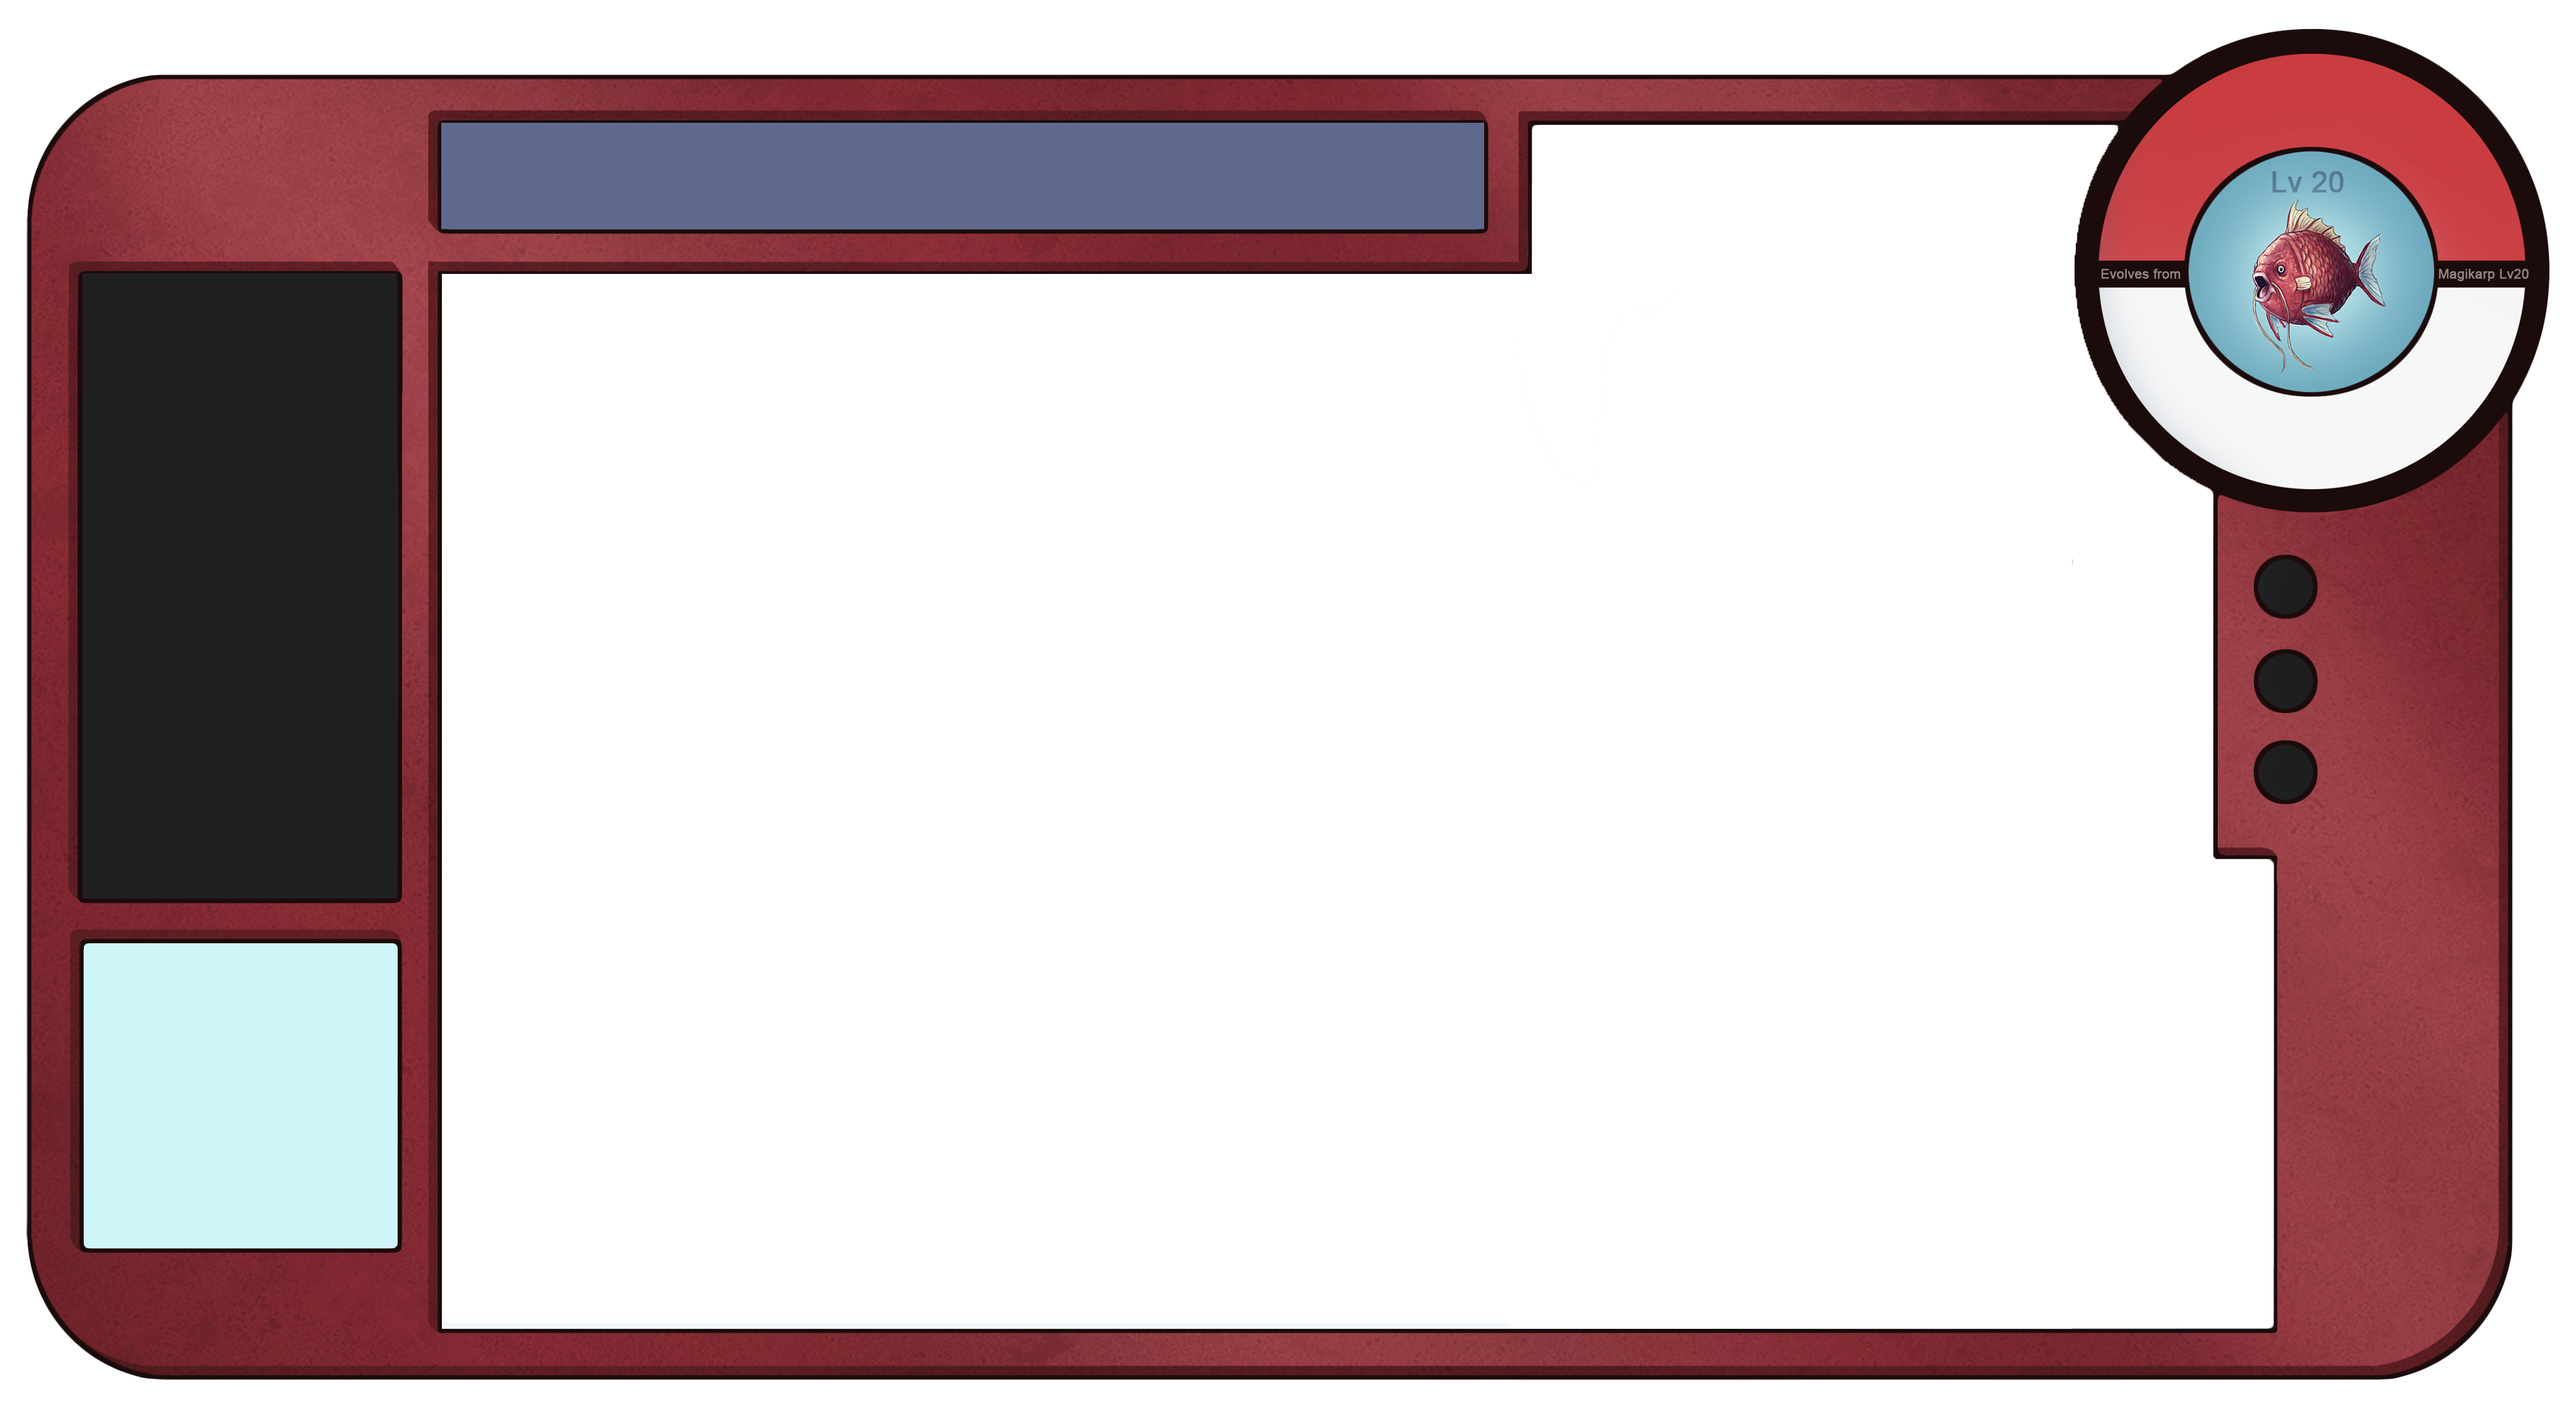
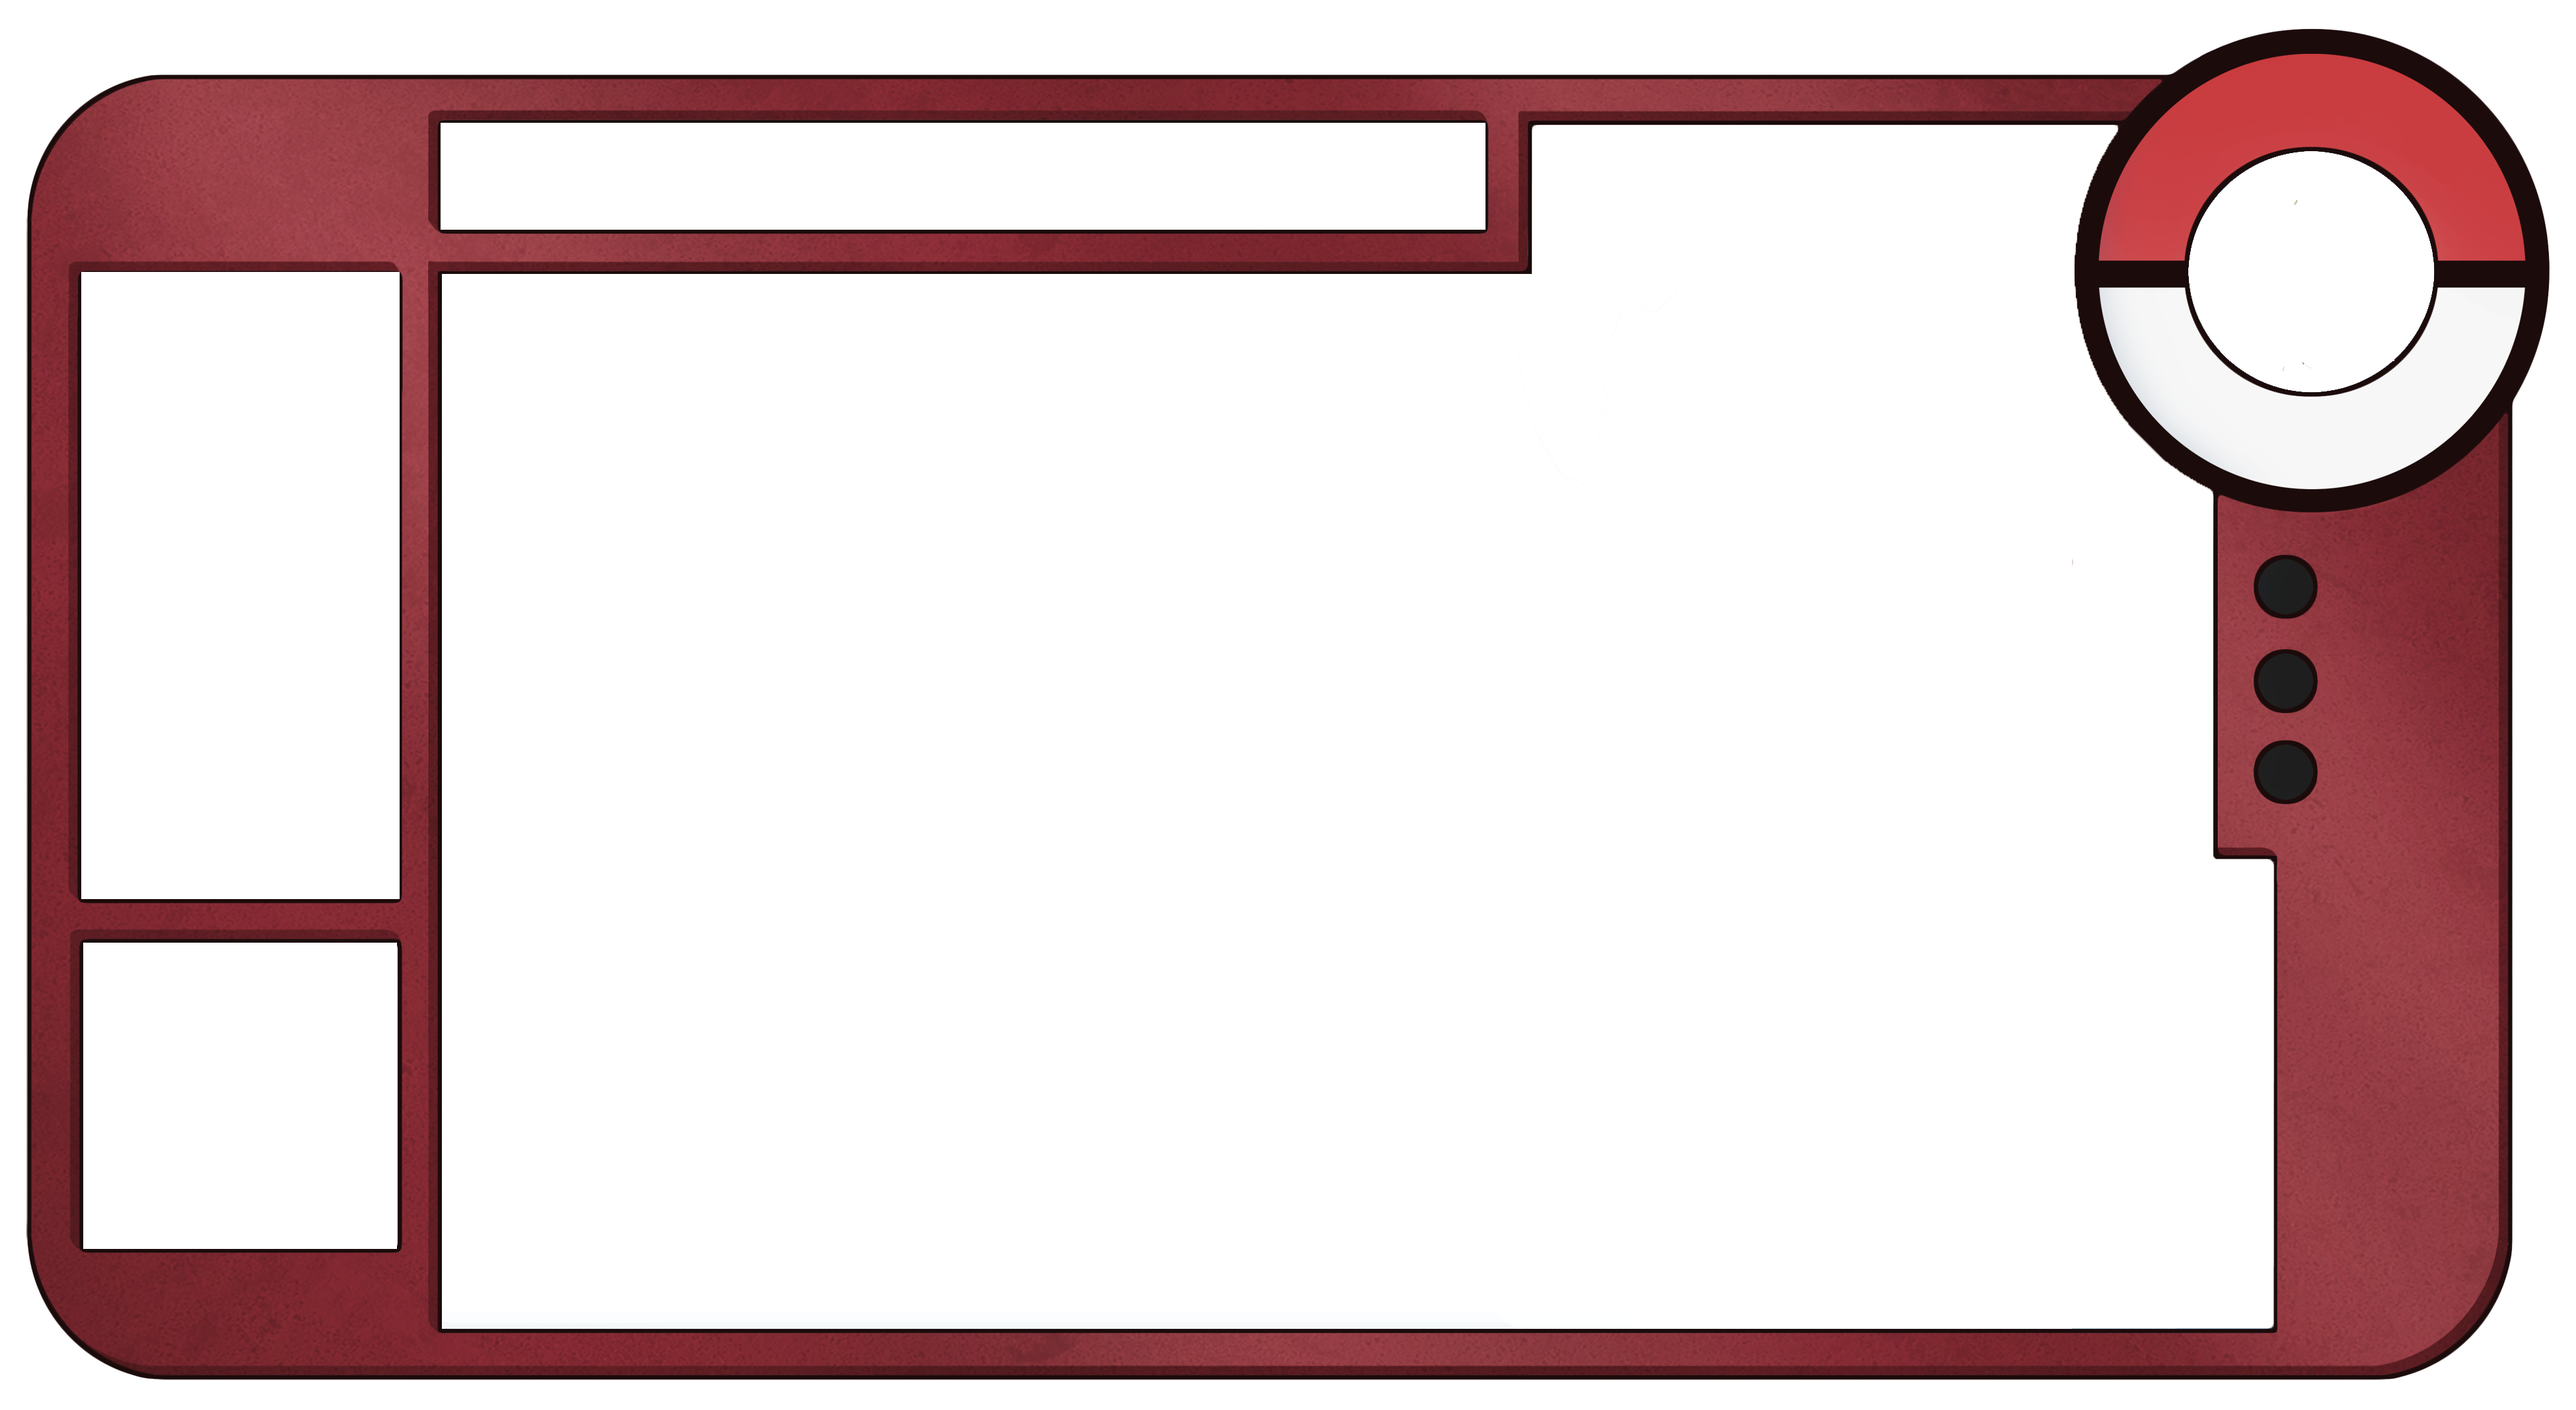
beginning with search component

Changed region(s): [[0.031, 0.1854, 0.1551, 0.8961], [0.1551, 0.0618, 0.5895, 0.1854], [0.8377, 0.0927, 0.9618, 0.2781]]

diff --git a/Cient/public/style.css b/Cient/public/style.css
@@ -14,9 +14,6 @@ body {
   justify-content: center;
 }
 
-a {
-}
-
 header {
   height: 130px;
   display: flex;
@@ -91,6 +88,42 @@ header {
     display: none;
 }
 
+  .collectionwrapper form {
+    width: 20px;
+    display: flex;
+    margin: 0;
+  }
+    .collectionwrapper form input {
+      position: absolute;
+      left: 0px;
+      top: 0;
+      color: black;
+      background: rgba(255,255,255,0.8) !important;
+      z-index: 1;
+      height: 30px;
+      width: 320px !important;
+      padding-left: 1em !important;
+      border-bottom: none !important;
+    }
+    input:focus, input:active {
+      border-bottom: none !important;
+    }
+    ::-webkit-input-placeholder {
+      color: grey;
+    }
+
+  .imglistdefault {
+
+  }
+    .imglistdefault img {
+      position: absolute;
+      top: 17px;
+      right: -43px;
+      width: 78px;
+      background-color: rgba(106, 106, 106,0.4);
+      border-radius: 50%;
+      z-index:3;
+    }
 
 .pokeid {
   position: relative;
@@ -107,16 +140,22 @@ header {
 
 .poketitles {
   position: absolute;
-  top: -285px;
-  left: 30px;
+  top: -280px;
+  left: 0;
   z-index:50;
-  color: #ffe7ce;
+  height: 43px;
+  color: black;
+  background: rgba(255,255,255,0.8);
   display: flex;
-  justify-content: space-between;
-  width: 50%;
+  justify-content: space-around;
+  width: 330px;
+  z-index: 1;
 }
   .poketitles .types {
-    padding-top: 1.5em;
+    padding-top: 0.9em;
+  }
+  .poketitles h5 {
+    margin: 0.4em 0 0 0;
   }
 
 .pokepicture img {
@@ -182,6 +221,45 @@ header {
       width: 180px;
       background: none;
     }
+
+  .pokeremark {
+    position: absolute;
+    bottom: 156px;
+    left: -112px;
+    width: 102px;
+    height: 193px;
+    color: white;
+    padding-left: 0.6em;
+    overflow: scroll;
+  }
+  .pokeremark::-webkit-scrollbar {
+      display: none;
+  }
+  .collectionwrapper .pokeremark {
+      bottom: 135px;
+  }
+    .pokeremark h6 {
+      font-size: 16px;
+      margin-top: 0.3em;
+      text-decoration: underline;
+    }
+    .pokeremark p {
+      font-size: 12px;
+      word-wrap: break-word;
+      width: 90px;
+      z-index: 50;
+    }
+      .nextpokepic span img {
+        position: absolute;
+        right: 0;
+        top: -260px;
+        right: -40px;
+        width: 70px;
+        background-color: rgba(106, 106, 106,1);
+        border-radius: 50%;
+        z-index: 4;
+      }
+
 
   .selectedPokemon {
     margin-left: -1.4em;
@@ -333,6 +411,10 @@ footer {
   background: rgb(94, 29, 247);
 }
 
+/**********************************/
+/***        RESPONSIVE          ***/
+/**********************************/
+
 @media only screen and (max-width: 1200px) {
   .pokemondatas {
     left: 9.3em;
@@ -345,6 +427,18 @@ footer {
   .selectedPokemon {
     margin-left: -0.7em;
     margin-top: -0.7em;
+  }
+  .nextpokepic span img {
+    top: -266px;
+    right: -41px;
+  }
+  .poketitles {
+    top: -283px;
+    left: 0;
+  }
+  .imglistdefault img {
+    top: 19px;
+    right: -43px;
   }
 }
 
@@ -361,4 +455,11 @@ footer {
     margin-top: 20.2em;
     margin-left: -2em;
   }
-}
+  .nextpokepic span img {
+    top: -266px;
+    right: -45px;
+  }
+  .imglistdefault img {
+    top: 15px;
+    right: -48px;
+  }

diff --git a/Cient/src/Identifiers.js b/Cient/src/Identifiers.js
@@ -3,7 +3,8 @@ import Picture from './Picture';
 import Type from './Type';
 import Infos from './Infos';
 import Attacks from './Attacks';
-import Evolution from './Evolution';
+import Remarks from './Remarks';
+import Search from './Search';
 
 class Identifiers extends Component {
   constructor(props){
@@ -26,7 +27,7 @@ class Identifiers extends Component {
     }
     if (ndex<10) { return ndex = '00'+ndex; }
     else if (ndex<100){ return ndex = '0'+ndex; }
-    else { return ndex };
+    return ndex;
   }
 
   componentDidUpdate() {
@@ -42,17 +43,27 @@ class Identifiers extends Component {
     if (this.props.data !== nextProps.data) {
       return true;
     }
-    if ((this.state.previous !== nextState.previous) || (this.state.next !== nextState.next)) {
+    if ((this.state.next !== nextState.next) || (this.state.previous !== nextState.previous)) {
+      this.setState({
+        next: nextState.next,
+        previous: nextState.previous,
+      })
       return true;
     }
     return false;
   }
 
   displayIdentifiers(isSolo) {
+    const rmqdefault = {}
+    rmqdefault['rmq-default'] = 'Logged in as ... Sacha.';
+
     if (isSolo===1) {
       let pkm = this.props.data[0];
       return (
         <div className="selectedPokemon">
+          <div className="nextpokepic">
+            <Picture data={pkm} next={this.state.next} />
+          </div>
           <div className="poketitles">
             <h5>{pkm.ndex}. {pkm.nom}</h5><Type type1={pkm.type1} type2={pkm.type2} />
           </div>
@@ -61,8 +72,8 @@ class Identifiers extends Component {
           </div>
           <div className="nextbutton"><a href={"/"+this.state.next}><img src="/next.png" alt="next"/></a></div>
           <div className="backbutton"><a href={"/"+this.state.previous}><img src="/back.png" alt="back"/></a></div>
+          <Remarks data={pkm}/>
           <Infos data={pkm}/>
-          <Evolution data=""/>
           <div className="attaques">
             <p>Attacks</p>
             <Attacks data={this.props.data}/>
@@ -71,6 +82,12 @@ class Identifiers extends Component {
       );
     } else {
       return (
+      <div className="collectionwrapper">
+        <div className="imglistdefault">
+          <img src="/unknown.png" alt="default" />
+        </div>
+        <Remarks data={rmqdefault}/>
+        <Search />
         <div className="identifiers collection">
           {this.props.data.map( p => {
             return (
@@ -79,7 +96,7 @@ class Identifiers extends Component {
                   <tbody><tr>
                     <td className="identifiersleft">
                       <span className="pokeid">{p.ndex}</span>
-                      <Picture data={p}/> ::: {p.nom}
+                      <Picture data={p} isThumb={false}/> ::: {p.nom}
                     </td><td>
                       <Type type1={p.type1} type2={p.type2} />
                     </td>
@@ -90,6 +107,7 @@ class Identifiers extends Component {
             })
           }
         </div>
+      </div>
       );
     }
   }

diff --git a/Cient/src/Picture.js b/Cient/src/Picture.js
@@ -5,22 +5,27 @@ class Picture extends Component {
     super(props);
     this.state = ({
       url: null,
-      unknown: "",
+      unknown: " ",
     });
   }
 
   componentDidMount() {
-    if (this.props.data.nom==="???") {
-      this.setState({ unknown: "unknown" })
-    }
-    this.setState({
+    if (this.props.data!==null) {
+      if (this.props.data.nom==="???") {
+        this.setState({ unknown: "unknown" })
+      }
+      this.setState({
         url: "https://assets.pokemon.com/assets/cms2/img/pokedex/full/"+this.props.data.ndex+".png" });
+    } else if (this.props.next!==null) {
+      this.setState({
+        url: "https://assets.pokemon.com/assets/cms2/img/pokedex/full/"+this.props.next.ndex+".png" });
+    }
   }
 
   render() {
     return(
       <span className="pokepicture">
-        <img className={""+this.state.unknown+""} src={this.state.url} alt={""+this.props.data.ndex+""} />
+        <img className={""+this.state.unknown+""} src={this.state.url} alt="pokepicture" />
       </span>
     );
   }

diff --git a/Cient/src/Remarks.js b/Cient/src/Remarks.js
@@ -1,0 +1,42 @@
+import React, {Component} from 'react';
+
+class Remarks extends Component {
+  constructor(props) {
+    super(props);
+    this.state = ({
+      rmrk1: null,
+      rmrk2: null,
+    });
+  }
+
+  componentDidMount() {
+    const rmqKeys=[];
+    for (let key in this.props.data) {
+      if (key.match(/^rmq-[a-z]*$/)) {
+        rmqKeys.push(key.match(/^rmq-[a-z]*$/));
+      }
+    }
+    if (rmqKeys.length===2) {
+      this.setState({
+        rmrk1:this.props.data[rmqKeys[0]],
+        rmrk2:this.props.data[rmqKeys[1]]
+      })
+    } else if (rmqKeys.length===1) {
+      this.setState({ rmrk1:this.props.data[rmqKeys[0]] })
+    } else {
+      this.setState({rmrk1:"No data found."})
+    }
+  }
+
+  render() {
+    return(
+      <span className="pokeremark">
+        <h6>Remarks :</h6>
+        <p>{this.state.rmrk1}</p>
+        <p>{this.state.rmrk2}</p>
+      </span>
+    );
+  }
+}
+
+export default Remarks;

diff --git a/Cient/src/Search.js b/Cient/src/Search.js
@@ -1,0 +1,15 @@
+import React, {Component} from 'react';
+
+class Search extends Component {
+  render() {
+    return(
+      <span className="search">
+        <form action="/sendSearch.js">
+          <input placeholder="Search for a pokemon..." type="text" name="pokesearch"  />
+        </form>
+      </span>
+    );
+  }
+}
+
+export default Search;

diff --git a/Server/routes/pokedex.js b/Server/routes/pokedex.js
@@ -13,6 +13,11 @@ function pokedex(router) {
     pokemonModel.getOne(req.params.idpoke,req,res);
   });
 
+/*** SEARCH POKEMON(S) ***/
+  router.get("/:strsearch", async (req,res)=>{
+    pokemonModel.search(req.params.strsearch,req,res);
+  });
+
 }
 
 module.exports = pokedex;

diff --git a/Cient/src/Infos.js b/Cient/src/Infos.js
@@ -15,6 +15,7 @@ class Infos extends Component {
       if (useful.indexOf(k)!==-1) {
         pkm[k] = this.props.data[k]
       }
+      return pkm;
     })
     this.setState({
       data: pkm,

diff --git a/Server/models/pokemons.js b/Server/models/pokemons.js
@@ -44,6 +44,10 @@ class pokemonModel {
     //res.send(`<pre>${pokemon}</pre>`);
   }
 
+/*** SEARCHING ***/
+  static search(str,req,res) {
+    
+  }
 }
 
 module.exports = pokemonModel;
